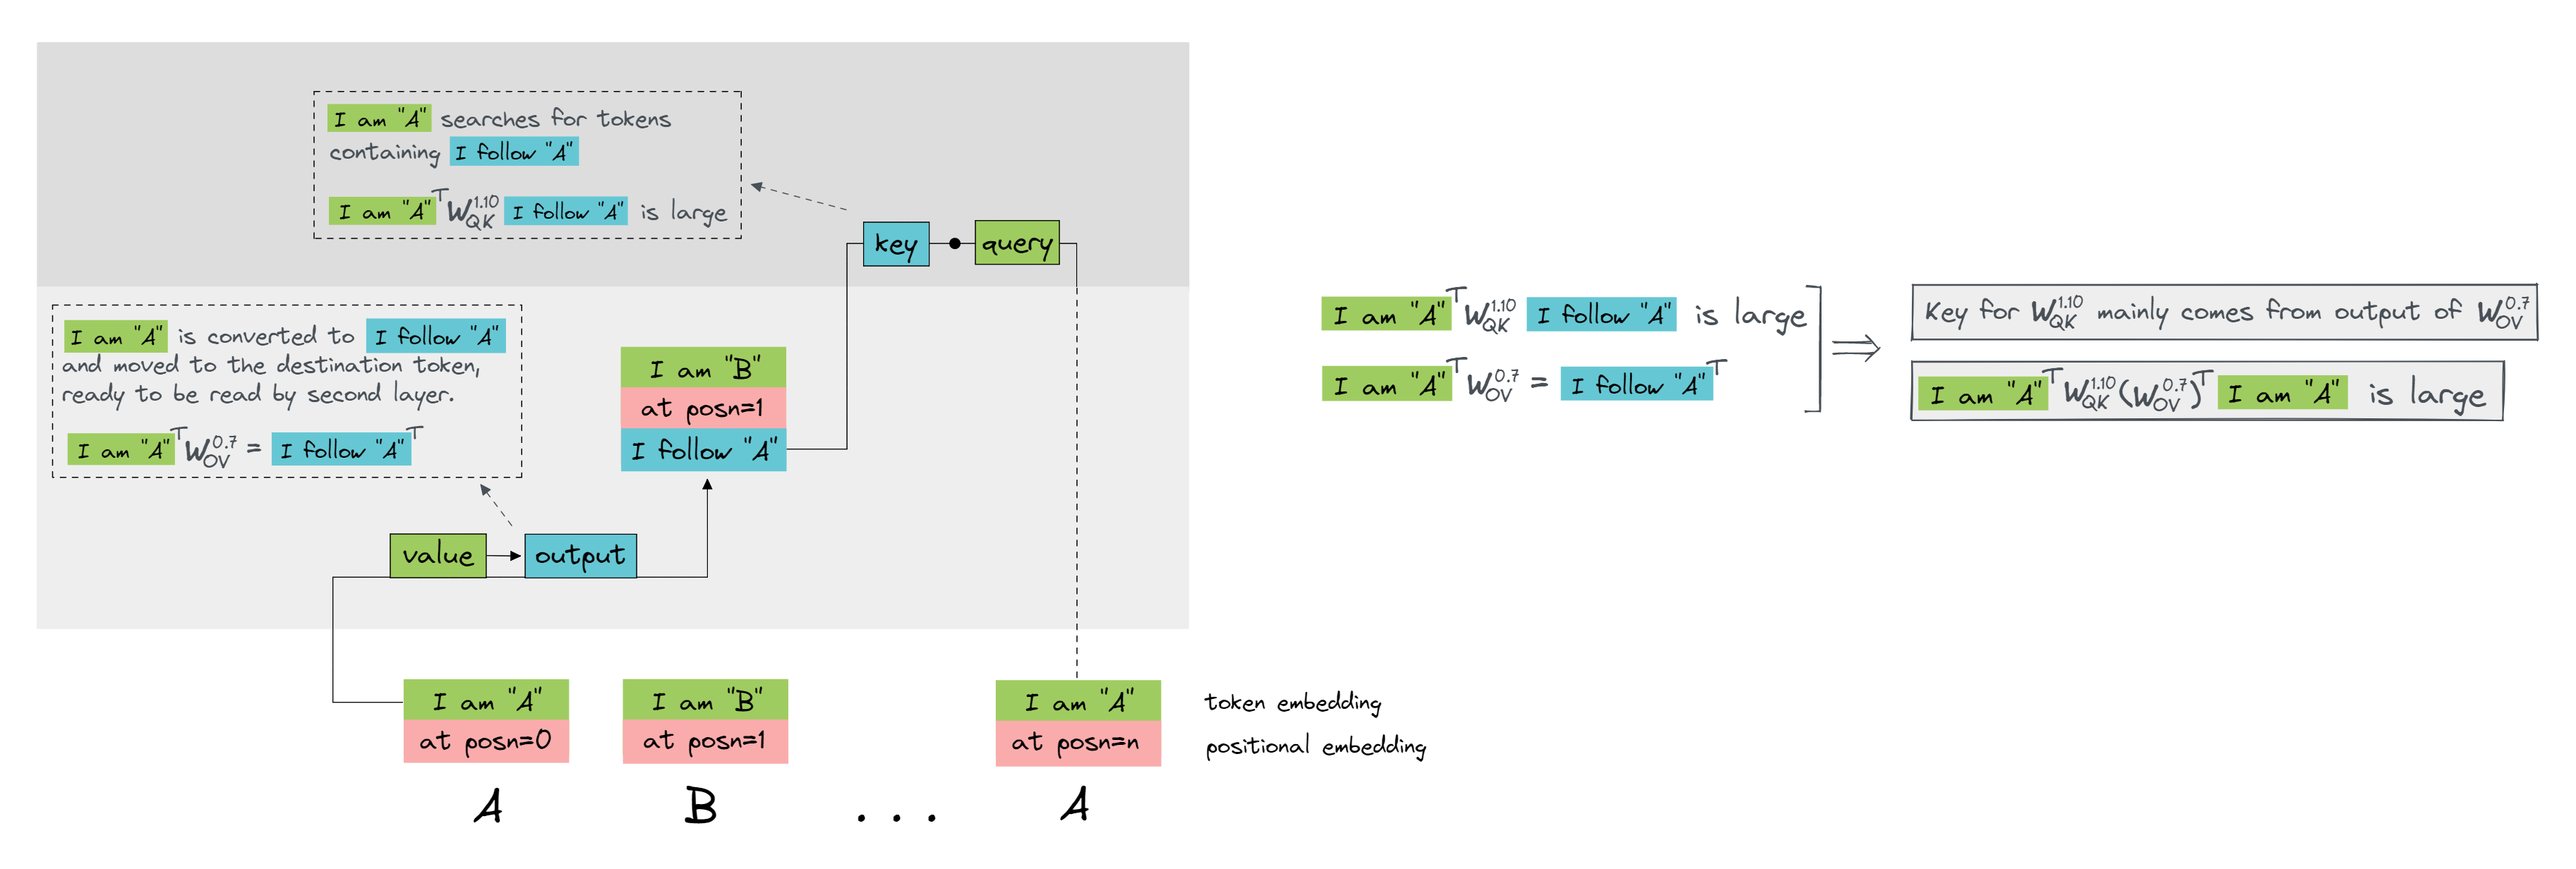
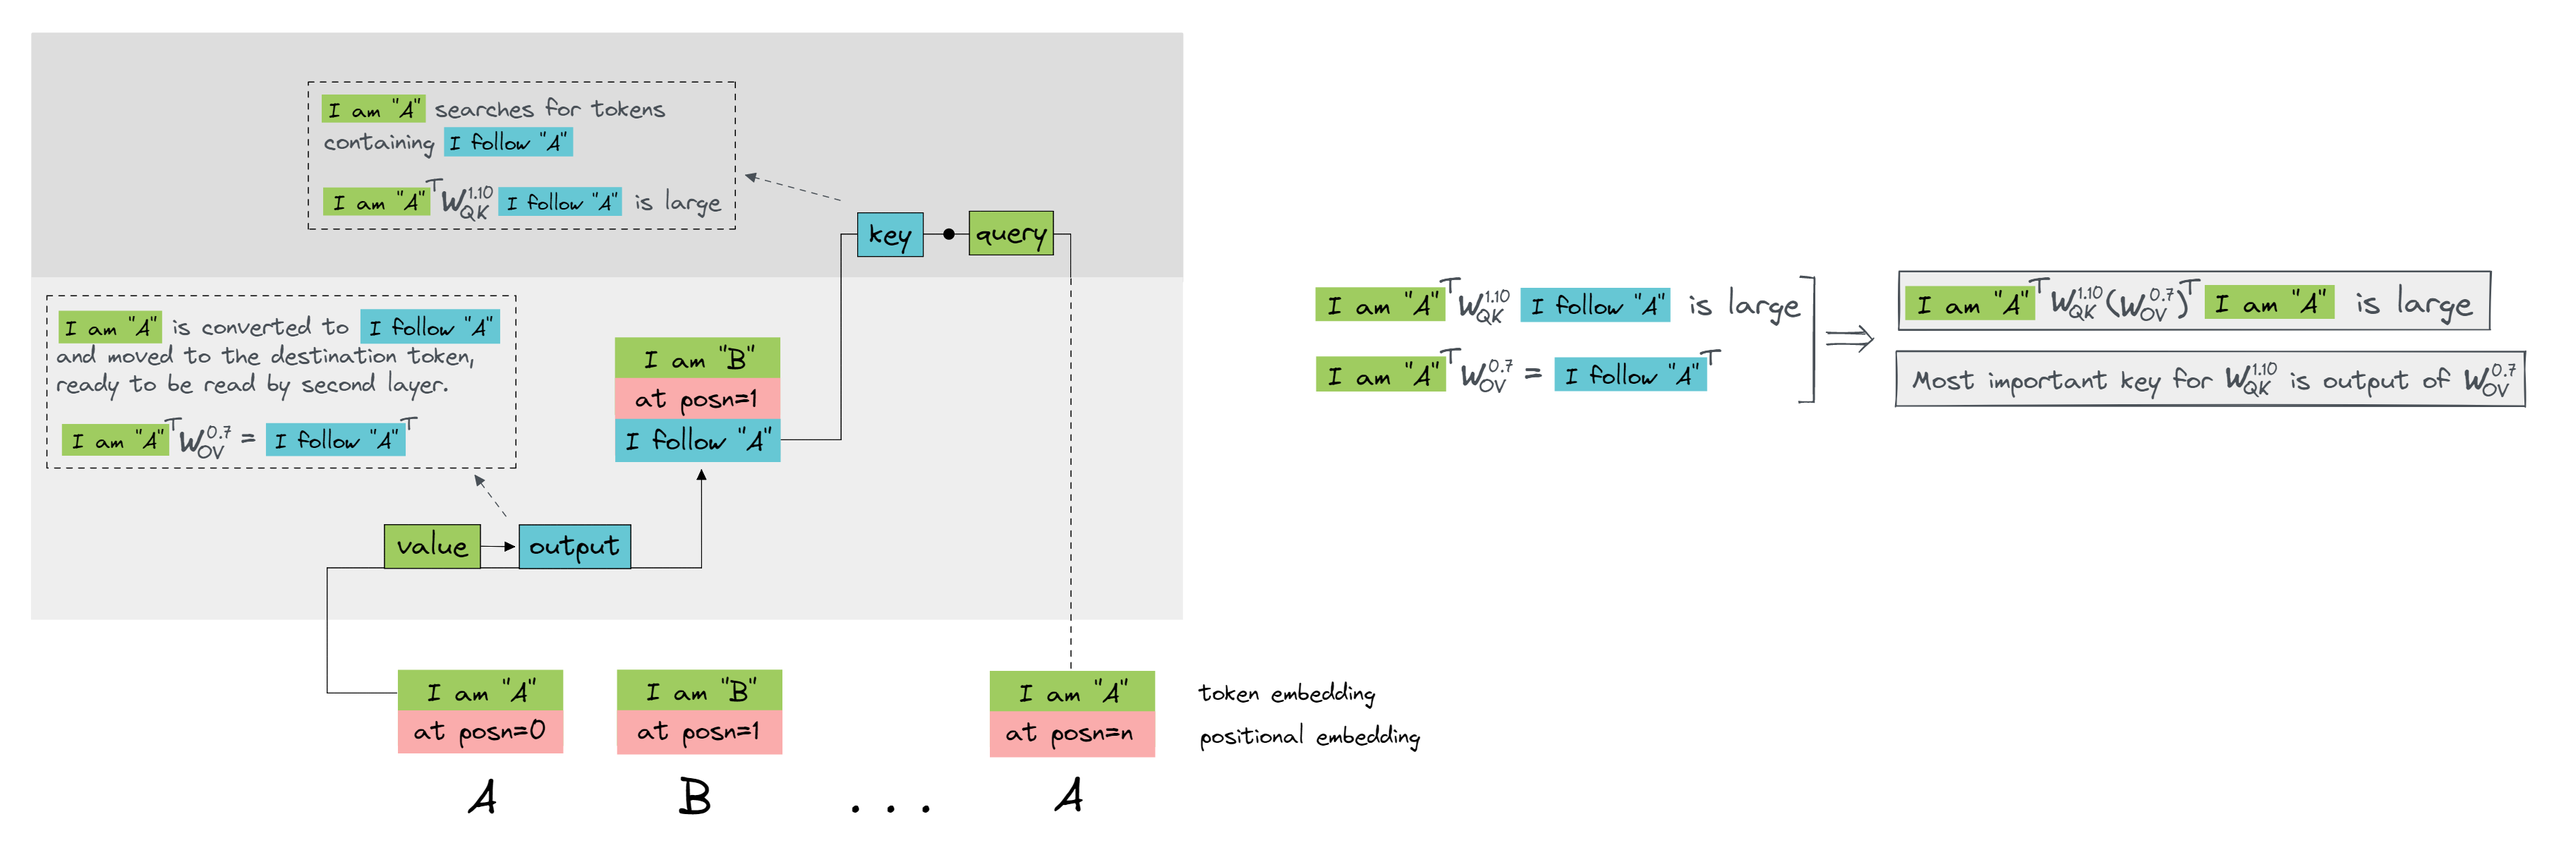
edit kcomp

diff --git a/pages/2_TransformerLens_&_induction_circuits.py b/pages/2_TransformerLens_&_induction_circuits.py
@@ -2991,7 +2991,8 @@ Remember that each of our components writes to the residual stream separately. S
             # st_excalidraw("components", 550)
             st.markdown("")
             st.markdown(r"""
-We're particularly interested in the attention scores computed in head `1.4`, and how they depend on the inputs into that head. We've already decomposed the residual stream value $x$ into its terms $e$, $pe$, and $x^ 0$ through $x^{11}$ (which we've labelled $y_0, ..., y_{13}$ for simplicity), and we've done the same for key and query terms. We can picture these terms being passed into head `1.4` as:""")
+We're particularly interested in the attention scores computed in head `1.4`, and how they depend on the inputs into that head. We've already decomposed the residual stream value $x$ into its terms $e$, $pe$, and $x^ 0$ through $x^{11}$ (which we've labelled $y_0, ..., y_{13}$ for simplicity), and we've done the same for key and query terms. We can picture these terms being passed into head `1.4` as:
+""")
             st_image("components-2.png", 680)
             # st_excalidraw("components-2", 800)
             st.markdown("")
@@ -3127,12 +3128,6 @@ If $X=A$, then the key is a good match for the query (since it's exactly what th
 """)
         st_image("kcomp_diagram_described-K.png", 1450)
         st.markdown("")
-
-
-# Note - this actually shows why the largest element of each **row** of the matrix should be the diagonal one, rather than the largest element on each column. It's important to get this the right way round - remember that logits are invariant to the addition of a constant, so it's meaningless to compare across two different logit distributions! That's why, in the code below, we've applied the test to the transpose of your function's output.
-# """)
-
-# We can now reuse our `top_1_acc` code from before to check that it's identity-like, we see that half the time the diagonal is the top (goes up to 89% with top 5 accuracy) (We transpose first, because we want the argmax over the key dimension)
 
     with st.columns(1)[0]:
         st.markdown(r"""
